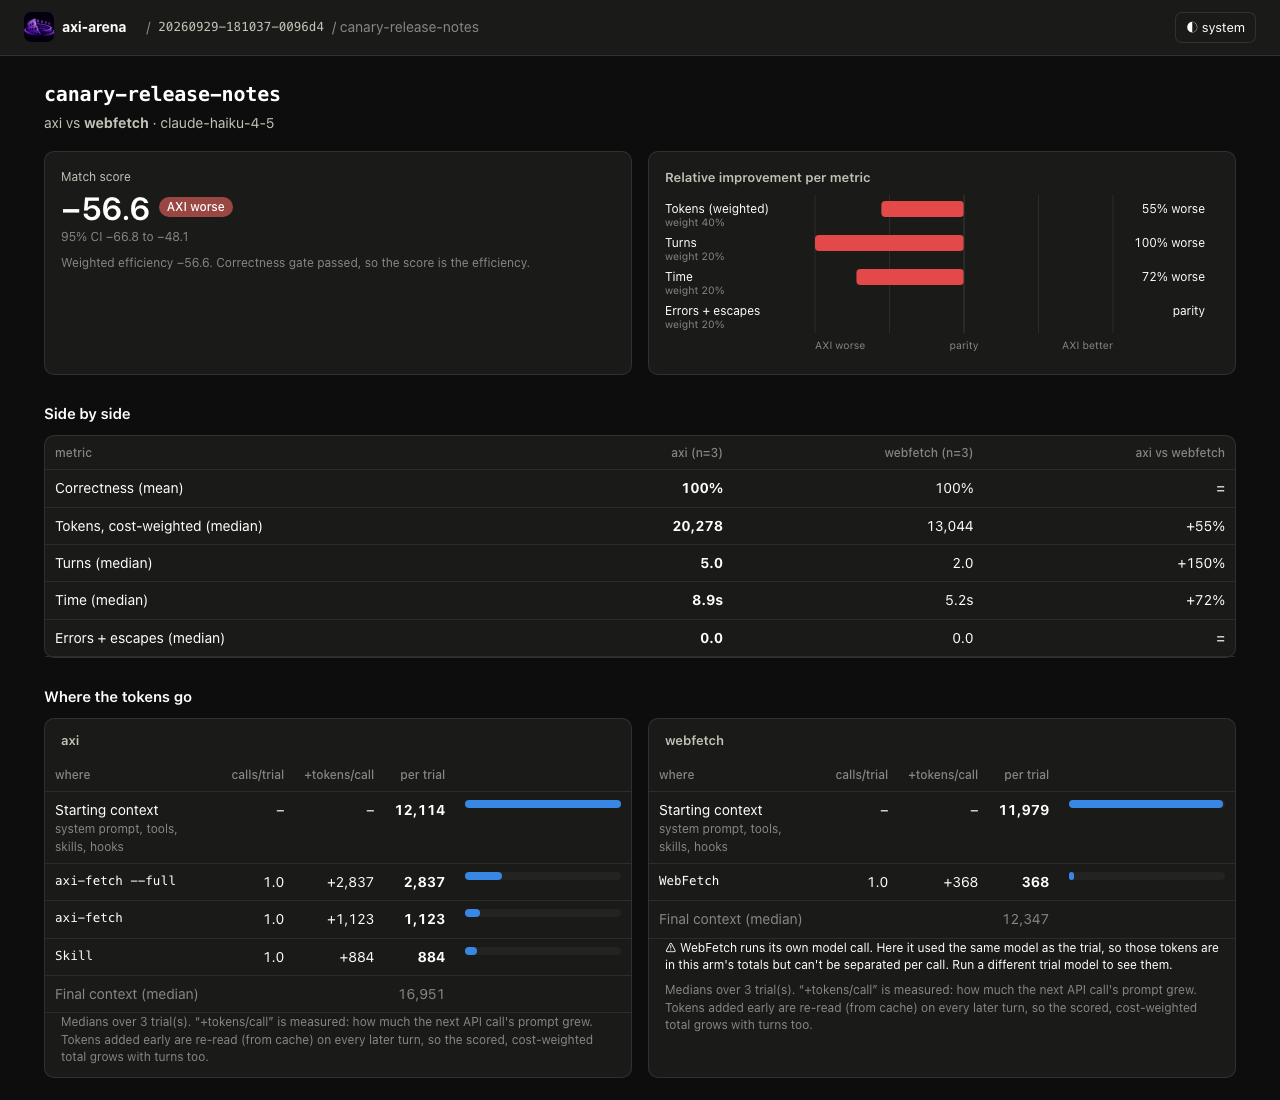
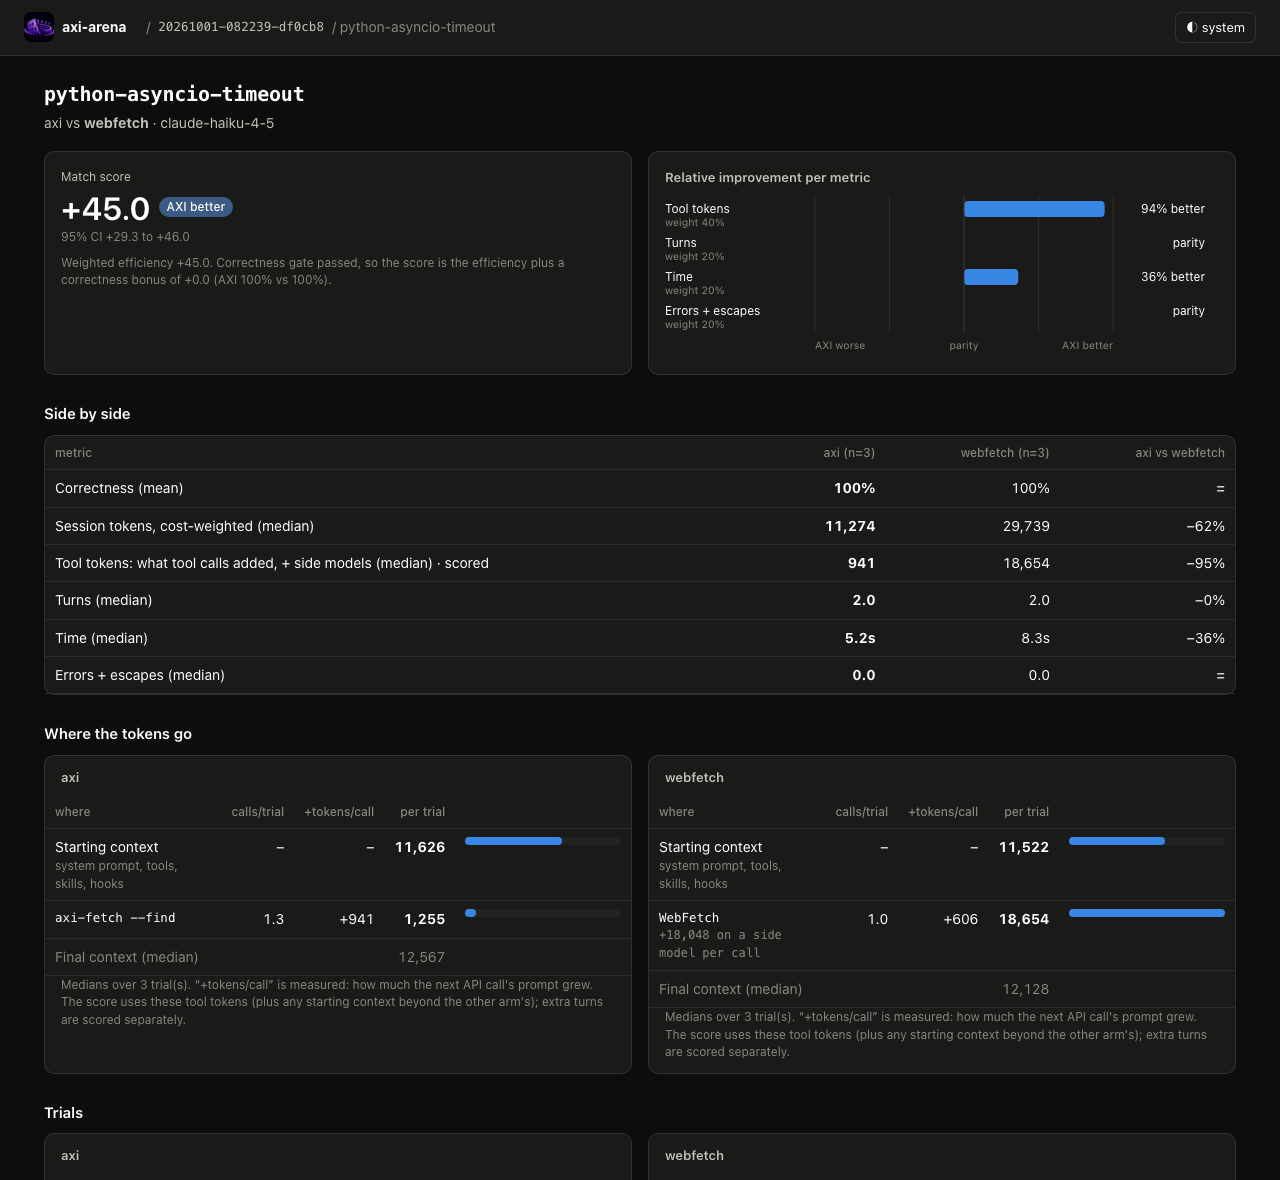
README screenshots from the official axi-fetch 0.3.0 run; token labels
- docs/run.png and docs/match.png re-taken from run 20261001-082239-df0cb8
  (+27.6, 14 tasks, both baselines) instead of an early unoptimized run.
- Match page labels follow the scored token metric ("Tool tokens"), and
  the token-flow footnote no longer describes the old session score.

diff --git a/packages/web/ui/src/components/MetricBars.tsx b/packages/web/ui/src/components/MetricBars.tsx
@@ -1,14 +1,15 @@
 import type { Match, Metric } from "../types.ts";
 import { num } from "../format.ts";
 
-const LABELS: Record<Metric, string> = { tokens: "Tokens (weighted)", turns: "Turns", time: "Time", errors: "Errors + escapes" };
+const LABELS: Record<Metric, string> = { tokens: "Tokens", turns: "Turns", time: "Time", errors: "Errors + escapes" };
 const METRICS: Metric[] = ["tokens", "turns", "time", "errors"];
 
 /**
  * Diverging bars of relative improvement per metric (−1..+1, right = AXI better),
  * with each metric's weight in the score. Values are labeled; no hover needed.
  */
-export function MetricBars({ match, weights }: { match: Match; weights: Record<Metric, number> }) {
+export function MetricBars({ match, weights, tokenMetric = "tool" }: { match: Match; weights: Record<Metric, number>; tokenMetric?: "session" | "tool" }) {
+  const label = (m: Metric) => (m === "tokens" ? (tokenMetric === "tool" ? "Tool tokens" : "Session tokens") : LABELS[m]);
   const W = 540, rowH = 34, labelW = 150, valueW = 92, pad = 6;
   const plotW = W - labelW - valueW;
   const mid = labelW + plotW / 2;
@@ -29,7 +30,7 @@ export function MetricBars({ match, weights }: { match: Match; weights: Record<M
         const fill = r >= 0 ? "var(--div-pos)" : "var(--div-neg)";
         return (
           <g key={m}>
-            <text x={0} y={y + barH / 2 + 4} fontSize={12} fill="var(--ink)">{LABELS[m]}</text>
+            <text x={0} y={y + barH / 2 + 4} fontSize={12} fill="var(--ink)">{label(m)}</text>
             <text x={0} y={y + barH / 2 + 17} fontSize={10.5} fill="var(--ink-muted)">weight {num(weights[m] * 100)}%</text>
             <rect x={x0} y={y} width={w} height={barH} rx={Math.min(4, w / 2)} fill={fill} />
             <text

diff --git a/packages/web/ui/src/components/TokenFlow.tsx b/packages/web/ui/src/components/TokenFlow.tsx
@@ -71,8 +71,8 @@ export function TokenFlow({ runId, task, model, arms }: { runId: string; task: s
               </div>
             )}
             <div className="muted small" style={{ padding: "0 16px 12px" }}>
-              Medians over {a.trials} trial(s). “+tokens/call” is measured: how much the next API call's prompt grew. Tokens added early are
-              re-read (from cache) on every later turn, so the scored, cost-weighted total grows with turns too.
+              Medians over {a.trials} trial(s). “+tokens/call” is measured: how much the next API call's prompt grew. The score uses these
+              tool tokens (plus any starting context beyond the other arm's); extra turns are scored separately.
             </div>
           </div>
         );

diff --git a/packages/web/ui/src/pages/Match.tsx b/packages/web/ui/src/pages/Match.tsx
@@ -103,7 +103,7 @@ export function MatchPage({ runId, task, model, vs }: { runId: string; task: str
         </div>
         <div className="card">
           <h3>Relative improvement per metric</h3>
-          <MetricBars match={m} weights={data.run.config.scoring.weights} />
+          <MetricBars match={m} weights={data.run.config.scoring.weights} tokenMetric={data.run.config.scoring.token_metric ?? "tool"} />
         </div>
       </div>
 
